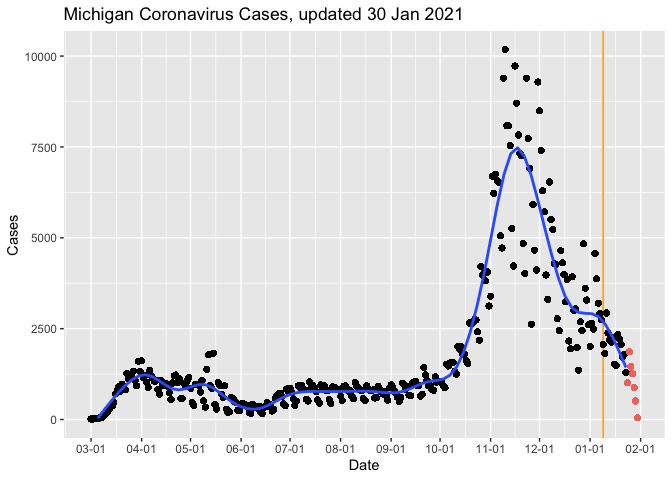
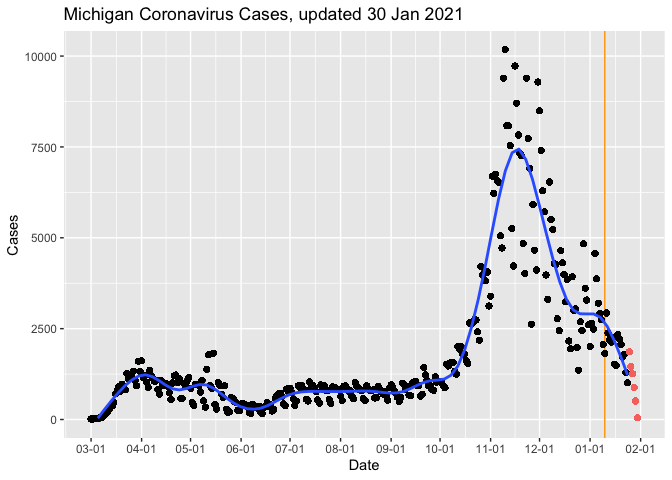
Jan-31 2021 15:10 update

diff --git a/MiCorona.md b/MiCorona.md
@@ -1,7 +1,7 @@
 Michigan COVID Data
 ================
 Adam D. DenHaan
-Jan 30, 2021
+Jan 31, 2021
 
 ``` python
 from urllib.request import urlopen
@@ -97,7 +97,7 @@ mi_cases_by_day_exclusive %>%
 
 ![](MiCorona_files/figure-gfm/viz-1.png)<!-- -->
 
-Note that the last 7 days of data have been colored red on the graph, as
+Note that the last 6 days of data have been colored red on the graph, as
 they frequently change as more information becomes available. Vertical
 orange line at 3 weeks in the past (as hospitalizations usually follow
 cases by three weeks).
